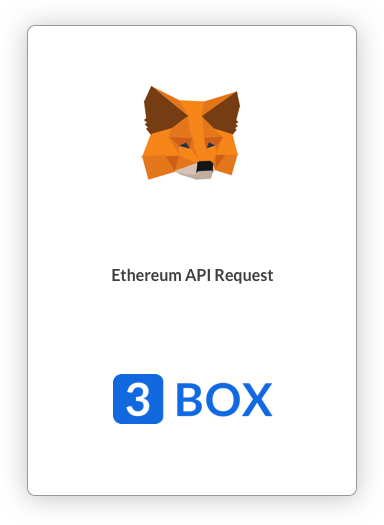
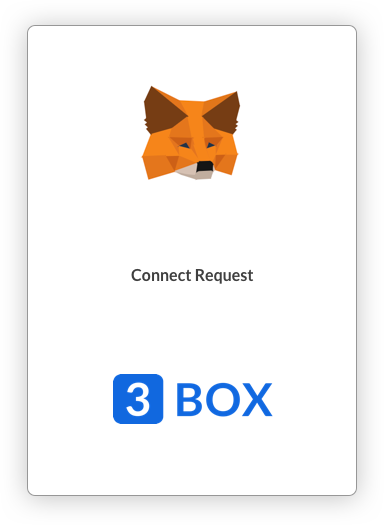
fine tune allow access modal copy

Changed region(s): [[0.2812, 0.4876, 0.7188, 0.5486]]

diff --git a/src/components/Modals.jsx b/src/components/Modals.jsx
@@ -150,10 +150,10 @@ export const ProvideAccessModal = ({
           <img src={Loading} alt="Loading" id="modal__loadingGraphic--access" />
 
           <div id="modal__copy__card">
-            <h3>Grant Access to 3Box in Web3 Wallet</h3>
+            <h3>Share Your Account</h3>
             {isMobile
-              ? <p>This allows 3Box to read the addresses associated with your account.  Please make sure you are logged in to your web3 wallet</p>
-              : <p>This allows 3Box to read the addresses associated with your account.  Please make sure you are logged in to your web3 wallet</p>
+              ? <p>To allow 3Box to read your Ethereum address, make sure you are logged in to your Web3 wallet.</p>
+              : <p>To allow 3Box to read your Ethereum address, make sure you are logged in to MetaMask.</p>
             }
           </div>
 
@@ -176,8 +176,8 @@ export const AccessDeniedModal = ({
           <div id="modal__copy__card">
             <h3>Access Denied to 3Box</h3>
             {isMobile
-              ? <p>3Box cannot proceed without access to the addresses associated to your account</p>
-              : <p>3Box cannot proceed without access to the addresses associated to your account</p>
+              ? <p>3Box cannot proceed without access to the address associated to your account</p>
+              : <p>3Box cannot proceed without access to the address associated to your account</p>
             }
           </div>
 
